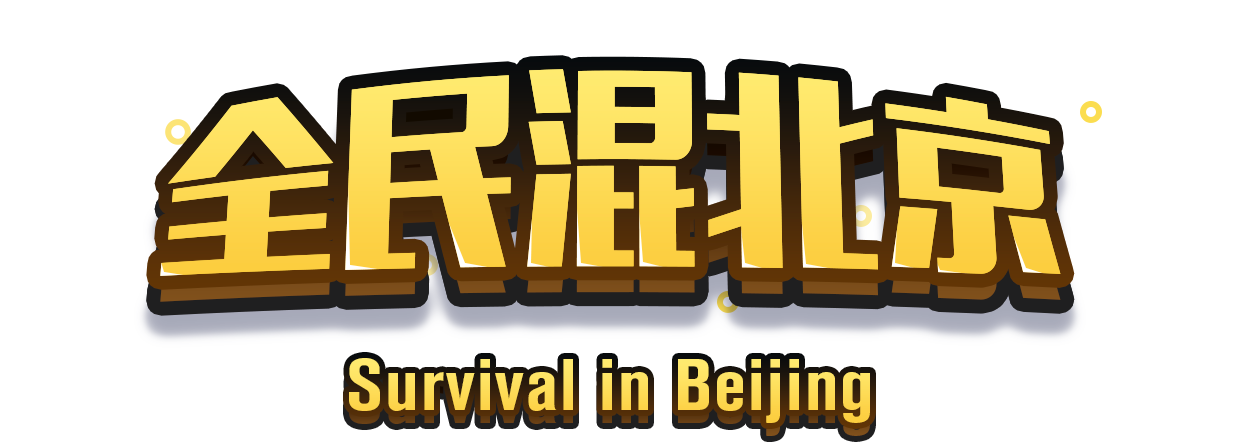
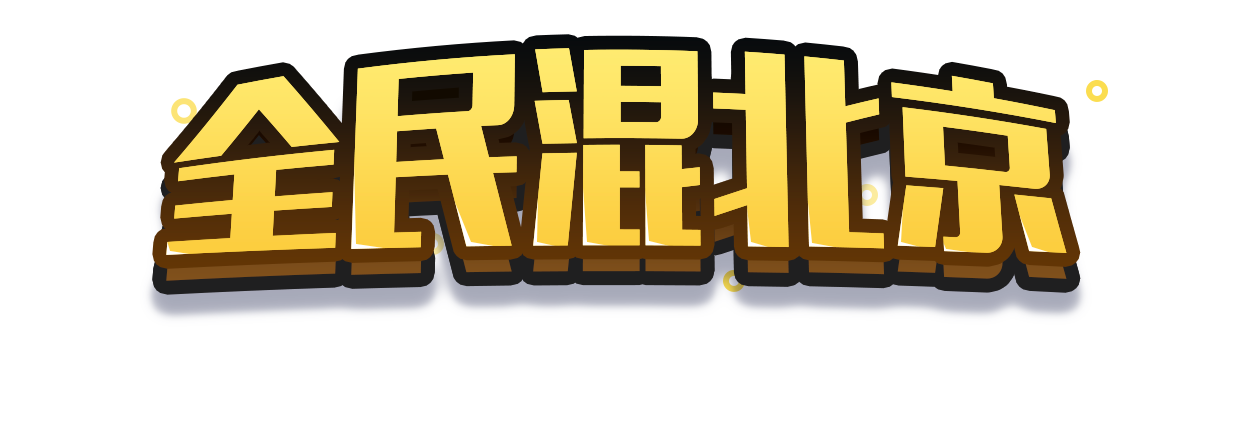
123
123

diff --git a/pages/index/report.js b/pages/index/report.js
@@ -178,7 +178,7 @@ Page({
     //draw bg
     ctx.drawImage('../../img/body-bg.jpg', 0, 0, canvasWidth, canvasHeight += 15)
     //draw title
-    ctx.drawImage('../../img/scjg.png', padding, usedHeight, titleWidth, usedHeight += 50)
+    ctx.drawImage('../../img/slogan.png', padding, usedHeight, titleWidth, usedHeight += 50)
     //draw avatar & rank
     usedHeight += 30//头像圆形上方,圆点需要+半径
     ctx.save()
